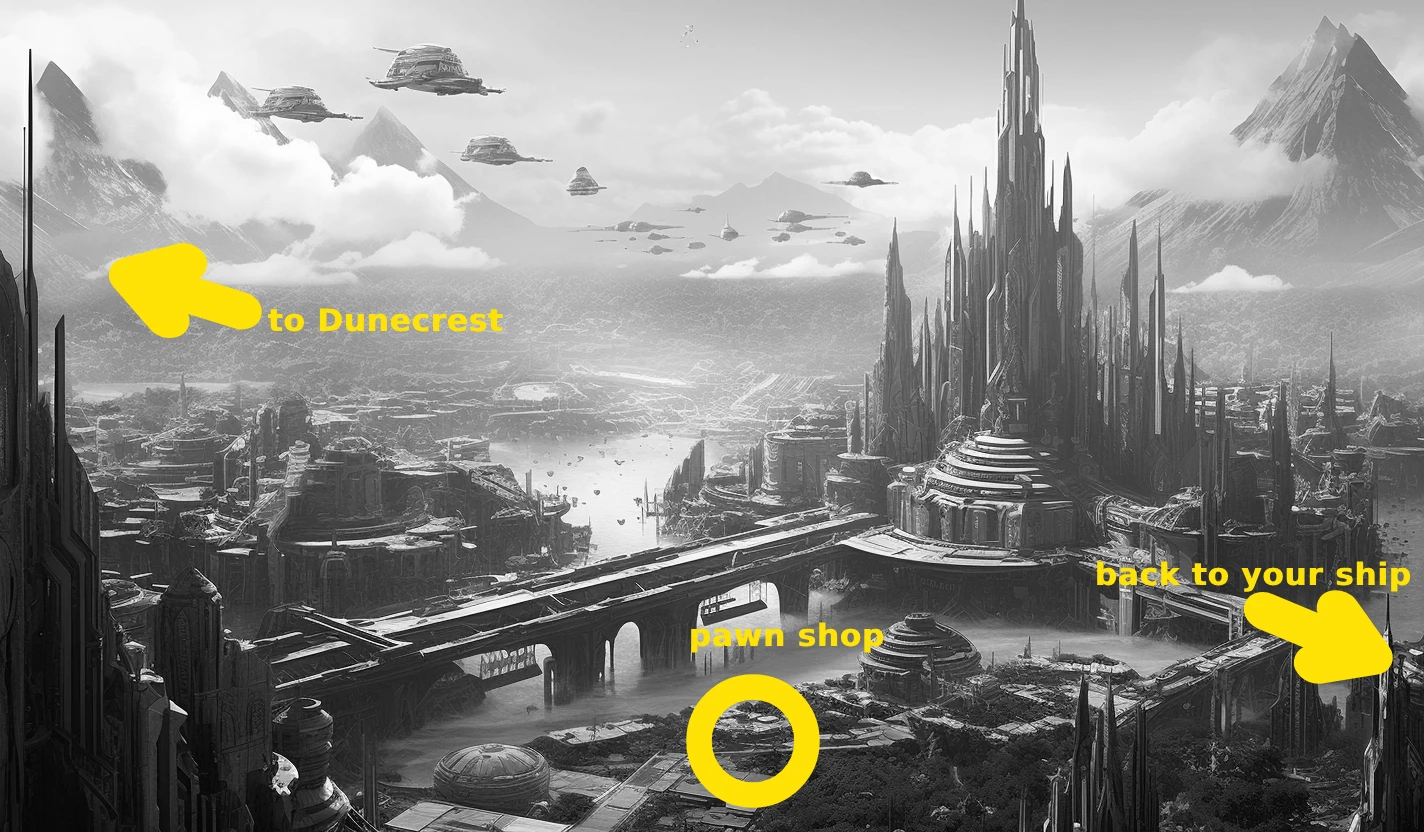
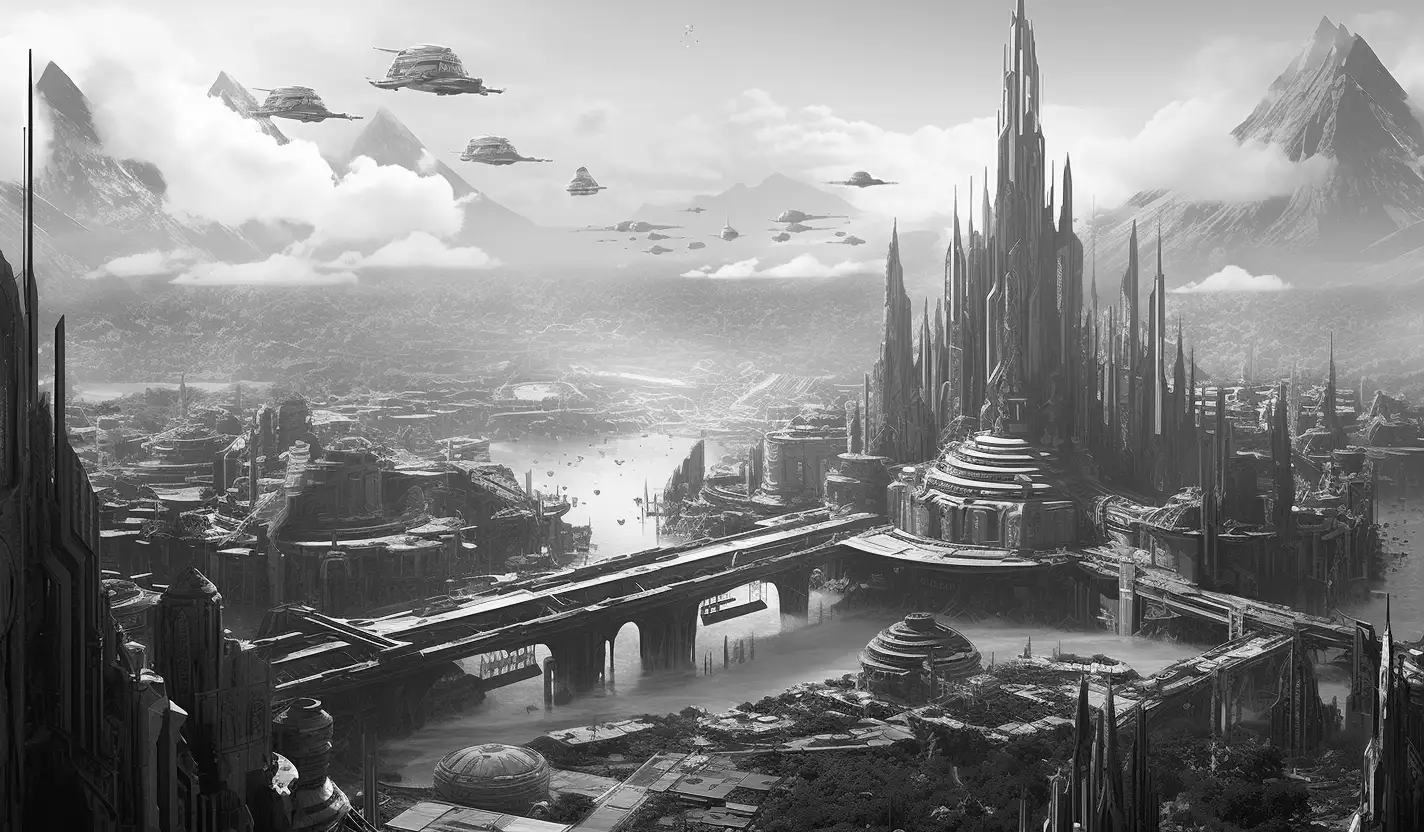
places clickable on image

diff --git a/client/src/components/4_PlaceVisit/4_PlaceVisit.jsx b/client/src/components/4_PlaceVisit/4_PlaceVisit.jsx
@@ -49,7 +49,30 @@ export default function $4_PlaceVisit({
   return (
     <section className="placeVisit-page">
       <section className={backgroundImageClass}>
-        <img src="" alt="" />
+        <div
+          id="dunecrestbox"
+          onClick={() => {
+            everyPath(2);
+          }}
+        >
+          to Dunecrest
+        </div>
+        <div
+          id="pawnshopbox"
+          onClick={() => {
+            everyPath(1);
+          }}
+        >
+          to Pawnshop
+        </div>{" "}
+        <div
+          id="backtoshipbox"
+          onClick={() => {
+            everyPath(3);
+          }}
+        >
+          Back to your ship
+        </div>
         <p id="placevisittext">
           {storyline[0].PlaceVisit[0][storyPath][storyChoice]}
         </p>

diff --git a/client/src/components/4_PlaceVisit/4_PlaceVisit.css b/client/src/components/4_PlaceVisit/4_PlaceVisit.css
@@ -45,3 +45,36 @@
   justify-content: center;
   align-items: center;
 }
+
+#dunecrestbox,
+#pawnshopbox,
+#backtoshipbox {
+  position: absolute;
+  min-height: 2rem;
+  border: 6px solid var(--yellow);
+  border-radius: 50%;
+  background-color: #ffe2079e;
+  color: black;
+  padding: 10px 10px 0px 10px;
+}
+
+#dunecrestbox {
+  top: 30%;
+  left: 10%;
+}
+
+#pawnshopbox {
+  top: 85%;
+  left: 25%;
+}
+#backtoshipbox {
+  top: 80%;
+  left: 50%;
+}
+
+#dunecrestbox:hover,
+#pawnshopbox:hover,
+#backtoshipbox:hover {
+  background-color: var(--yellow);
+  cursor: pointer;
+}
